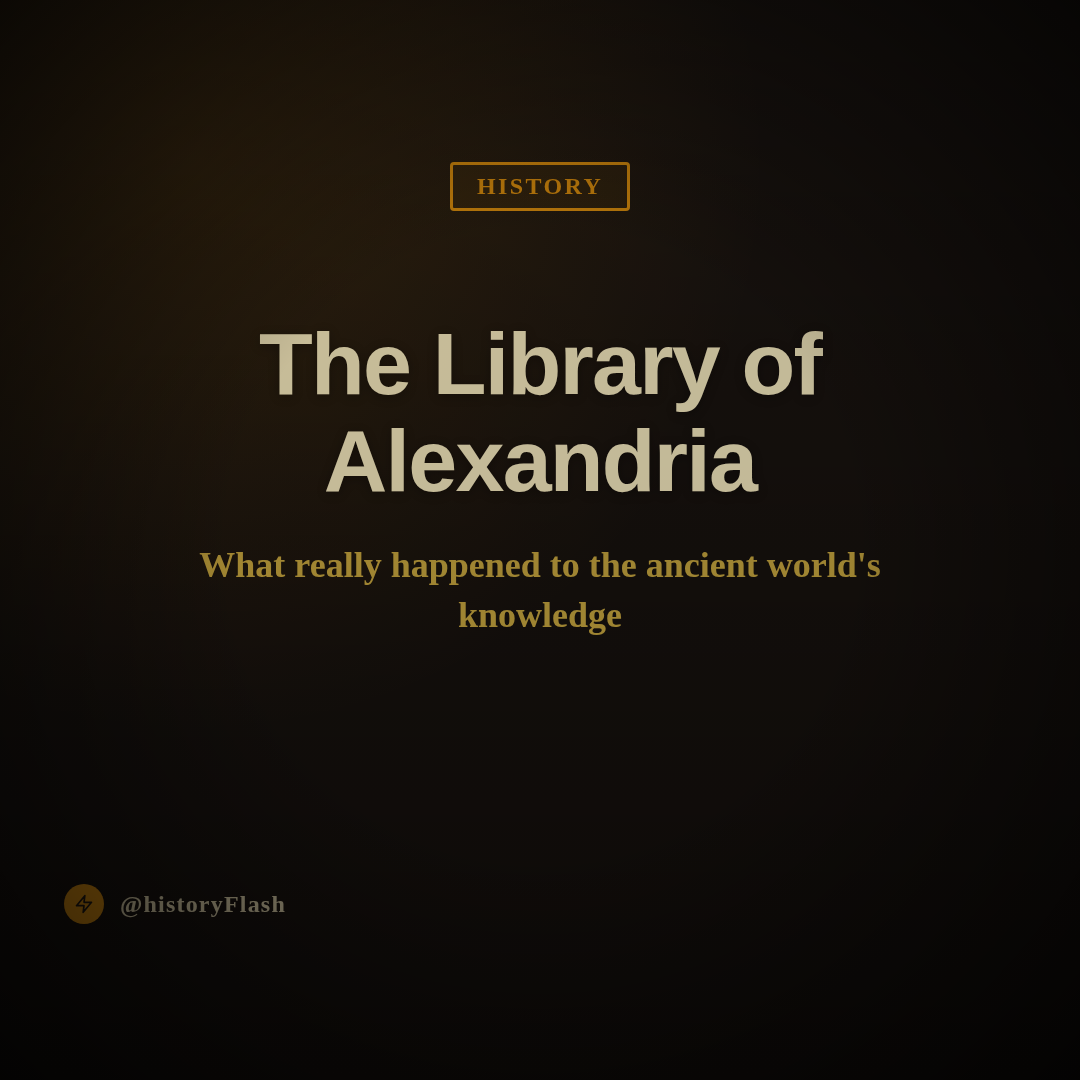
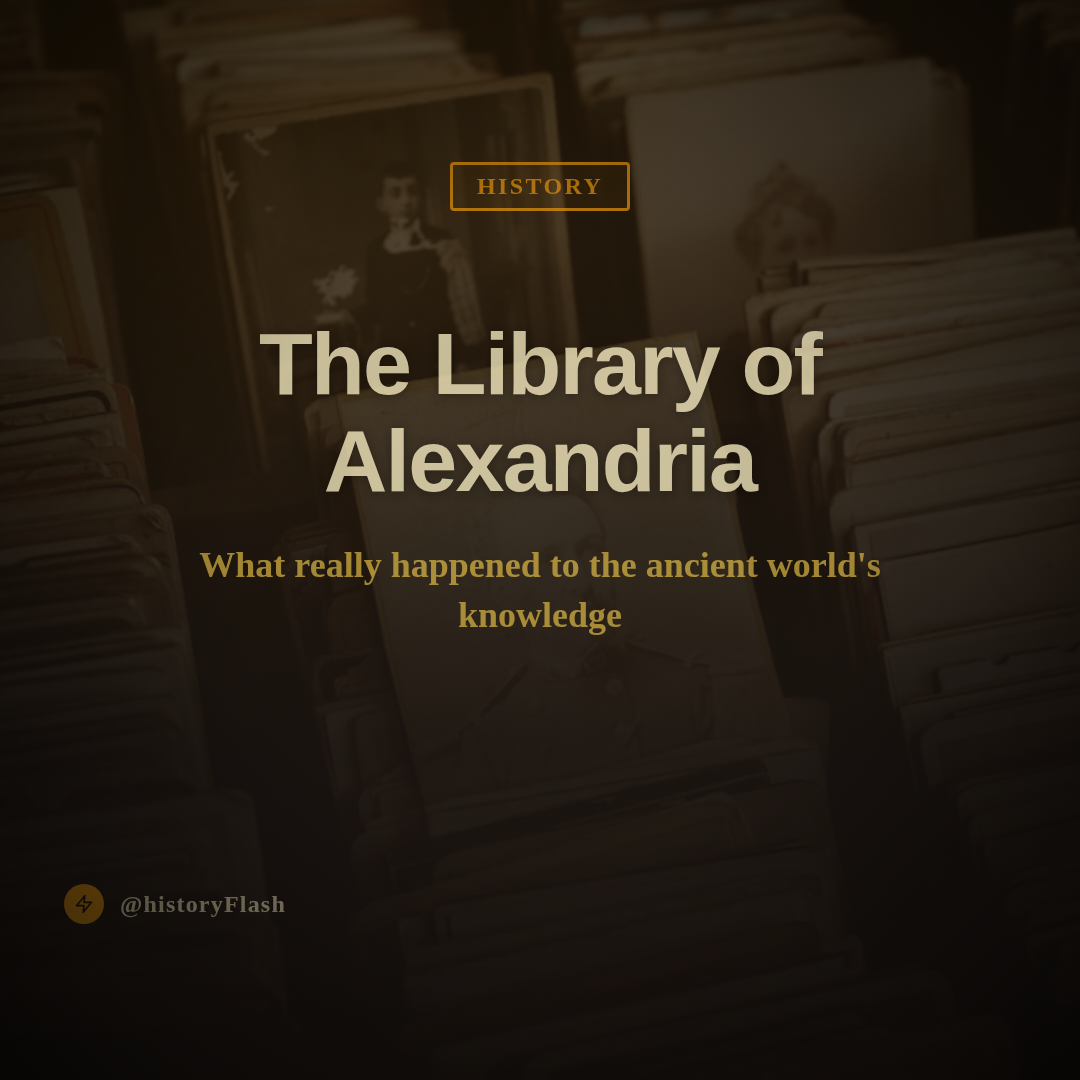
feat: add rich thematic backgrounds per İlkin feedback
İlkin feedback: "Çox sadədir" - hook frames too plain/typography-only.
Requested thematic background imagery appropriate to niche while keeping text readable.

CHANGES:
1. **Visible thematic backgrounds in HookA**
   - Niche-specific default backgrounds (Unsplash stock photos)
     - psychology-micro: brain/mind abstract
     - history-flash: ancient books/library
     - legal-rights-az: justice/law books
     - study-hacks: study desk/notes
     - ai-tools-daily: AI/tech abstract
   - Background opacity raised: 0.45-0.6 (was 0.2-0.35)
   - Treatment improved: light desaturate + brightness(0.7) instead of grayscale(100%)
   - Strong niche-tinted gradient scrim for text contrast
   - `data.imageUrl` overrides niche default (composition API preserved)

2. **ContentGeneric optional backgrounds**
   - Subtle texture support via `data.backgroundImage` (12% opacity)

3. **Updated test manifests**
   - All 5 niches now include `imageUrl` in HOOK_A slides
   - Demonstrates image backgrounds in action

4. **Regenerated proof frames**
   - All hook stills (frame 0 + 18) re-rendered with visible backgrounds
   - MD5s changed (backgrounds now present)
   - File sizes increased: ~800KB → ~1.2-1.4MB

   New MD5s:
   - psychology: b3bee168262ea896edab0228889248a7
   - legal: cb4d0aaee900ff9e8ebeaeb0376c1e2c
   - study: 56e65b5e933fdc4f8cd3d7c933849d0b
   - history: cd92864a529fb0deca43f051745ce57b
   - ai-tools: fa1cf20d5d84d88fdc73489f07ebfcbb
[…]

diff --git a/src/templates/HookA.tsx b/src/templates/HookA.tsx
@@ -20,13 +20,25 @@ export default function HookA({
     const headline = data.headline || 'Breaking News';
     const subheadline = data.subheadline || '';
 
+    // Niche-specific default background images
+    const nicheBackgrounds: Record<string, string> = {
+        'psychology-micro': 'https://images.unsplash.com/photo-1559757148-5c350d0d3c56?w=1080&q=80', // Brain/mind abstract
+        'history-flash': 'https://images.unsplash.com/photo-1461360370896-922624d12aa1?w=1080&q=80', // Ancient books/library
+        'legal-rights-az': 'https://images.unsplash.com/photo-1589829545856-d10d557cf95f?w=1080&q=80', // Justice/law books
+        'study-hacks': 'https://images.unsplash.com/photo-1456513080510-7bf3a84b82f8?w=1080&q=80', // Study desk/notes
+        'ai-tools-daily': 'https://images.unsplash.com/photo-1677442136019-21780ecad995?w=1080&q=80', // AI/tech abstract
+    };
+
+    const backgroundImage = data.imageUrl || nicheBackgrounds[niche] || nicheBackgrounds['psychology-micro'];
+
     // Faster, punchier motion for hook retention (<1s to full visibility)
     const hookDuration = tokens.motion.hookDuration;
     
-    const imgScale = interpolate(frame, [0, hookDuration * 1.5], [1.08, 1], {
+    const imgScale = interpolate(frame, [0, hookDuration * 1.5], [1.05, 1], {
         extrapolateRight: 'clamp',
     });
-    const imgOpacity = interpolate(frame, [0, hookDuration], [0.2, 0.35], {
+    // More visible backgrounds: 0.45-0.6 opacity range
+    const imgOpacity = interpolate(frame, [0, hookDuration], [0.45, 0.6], {
         extrapolateRight: 'clamp',
     });
 
@@ -78,32 +90,30 @@ export default function HookA({
                 overflow: 'hidden',
             }}
         >
-            {/* Subtle gradient overlay */}
+            {/* Background image with niche default */}
+            <Img
+                src={backgroundImage}
+                style={{
+                    position: 'absolute',
+                    inset: 0,
+                    width: '100%',
+                    height: '100%',
+                    objectFit: 'cover',
+                    filter: `saturate(0.7) brightness(0.7)`, // Light desaturate, darker for contrast
+                    transform: `scale(${imgScale})`,
+                    opacity: imgOpacity,
+                }}
+            />
+
+            {/* Niche-tinted overlay for color wash + strong scrim for text readability */}
             <div
                 style={{
                     position: 'absolute',
                     inset: 0,
-                    background: 'linear-gradient(to bottom, rgba(0,0,0,0.1), rgba(0,0,0,0.5))',
+                    background: `linear-gradient(to bottom, ${tokens.colors.primary}15 0%, ${tokens.colors.background}dd 70%)`,
                     zIndex: 10,
                 }}
             />
-
-            {/* Background image (optional) */}
-            {data.imageUrl && (
-                <Img
-                    src={data.imageUrl}
-                    style={{
-                        position: 'absolute',
-                        inset: 0,
-                        width: '100%',
-                        height: '100%',
-                        objectFit: 'cover',
-                        filter: 'grayscale(100%) blur(1px)',
-                        transform: `scale(${imgScale})`,
-                        opacity: imgOpacity,
-                    }}
-                />
-            )}
 
             {/* Content - positioned in safe zone */}
             <div

diff --git a/src/templates/ContentGeneric.tsx b/src/templates/ContentGeneric.tsx
@@ -61,6 +61,9 @@ export default function ContentGeneric({
         extrapolateRight: 'clamp',
     });
 
+    // Optional subtle background texture
+    const hasBackgroundImage = typeof data.backgroundImage === 'string' && data.backgroundImage;
+
     return (
         <div
             style={{
@@ -73,6 +76,22 @@ export default function ContentGeneric({
                 overflow: 'hidden',
             }}
         >
+            {/* Optional subtle background texture for body content */}
+            {hasBackgroundImage && (
+                <>
+                    <div
+                        style={{
+                            position: 'absolute',
+                            inset: 0,
+                            backgroundImage: `url(${data.backgroundImage})`,
+                            backgroundSize: 'cover',
+                            backgroundPosition: 'center',
+                            opacity: 0.12,
+                            filter: 'grayscale(60%) blur(2px)',
+                        }}
+                    />
+                </>
+            )}
             {/* Top accent bar */}
             <div
                 style={{
